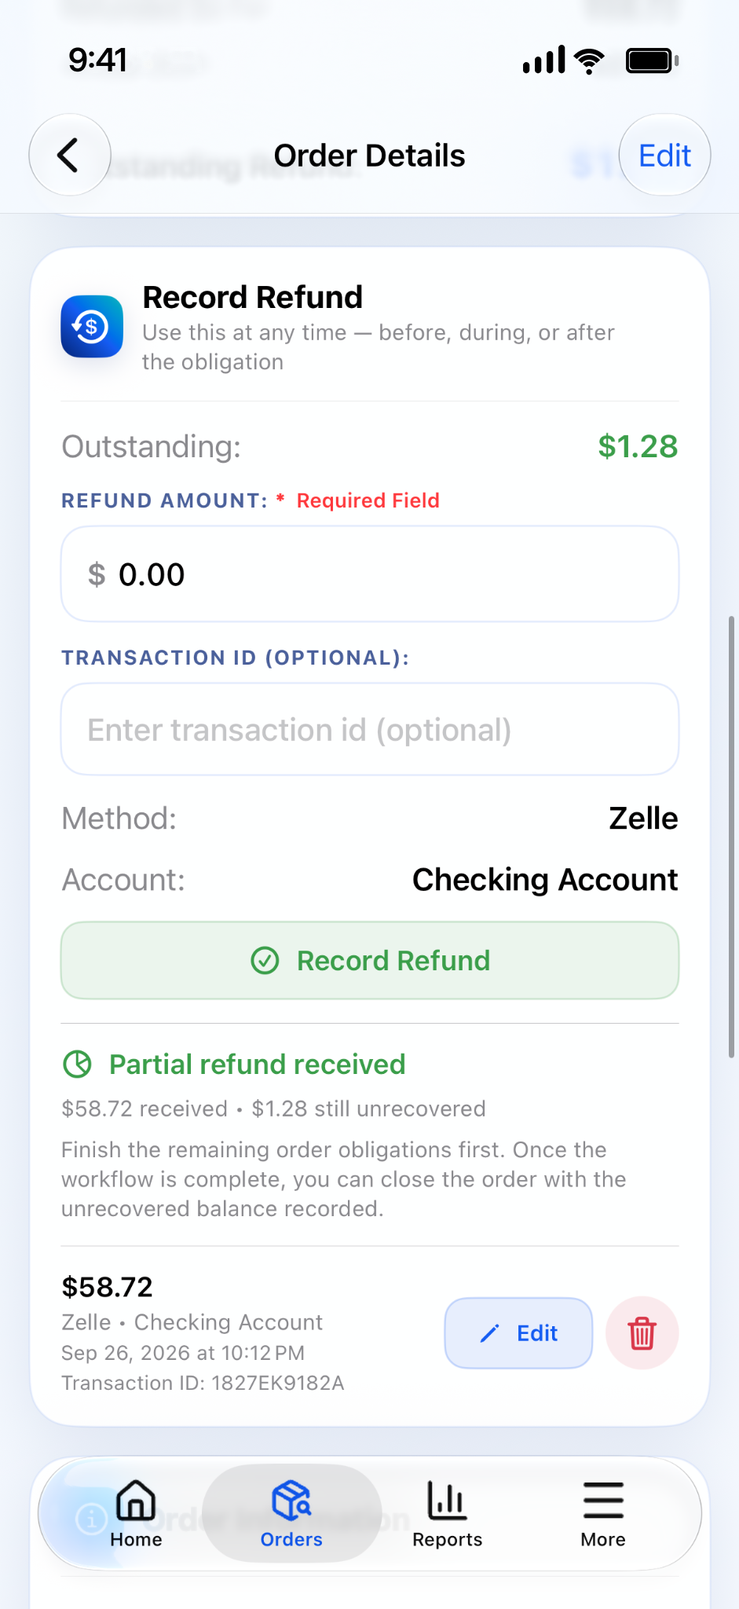
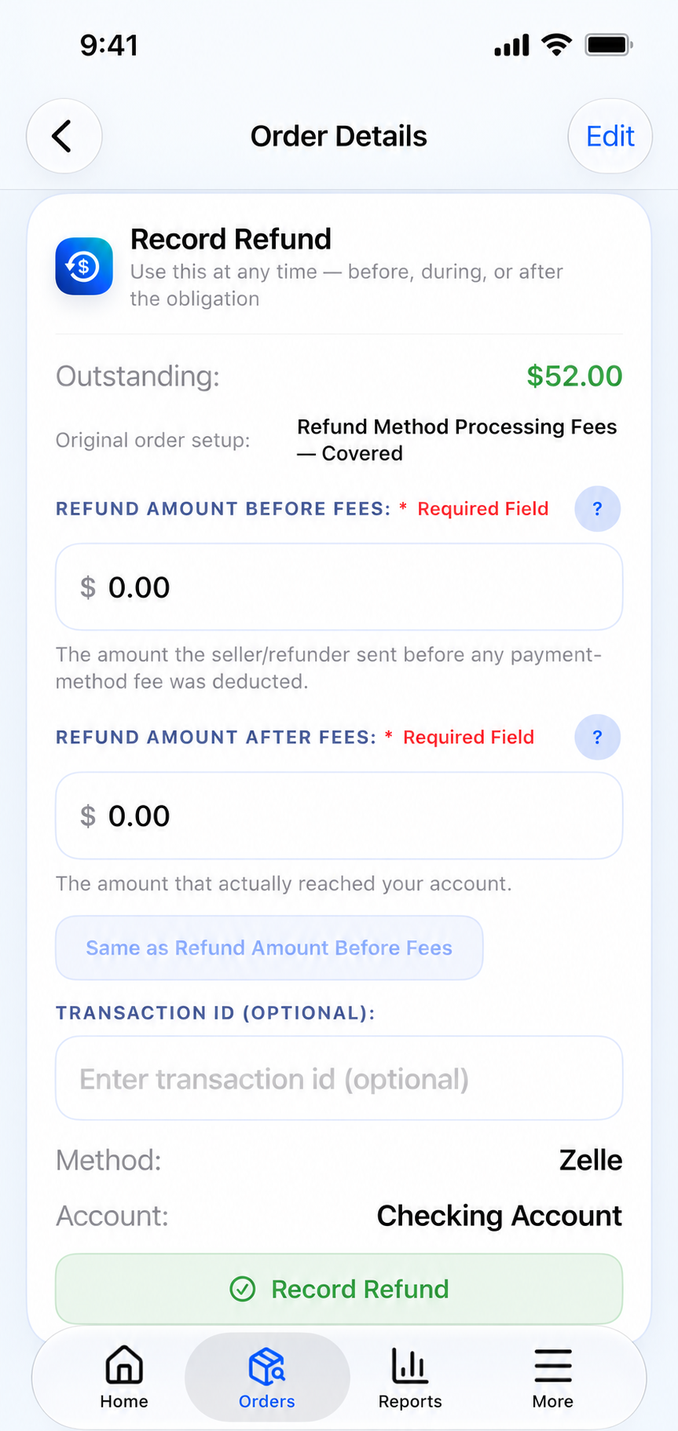
Add files via upload

diff --git a/index.html b/index.html
@@ -5,10 +5,10 @@
 <meta charset="utf-8"/>
 <meta content="width=device-width,initial-scale=1" name="viewport"/>
 <meta content="#145cf2" name="theme-color"/>
-<meta content="RebataTrack organizes rebate purchases from order through refund, with workflow tracking, grouped refunds, cloud sync, reporting, and RebataTrack+ premium tools." name="description"/>
+<meta content="RebataTrack keeps rebate orders, obligations, refund expectations, out-of-pocket costs and payments organized. Explore RebataScan, advanced reports and Saved Views with RebataTrack+." name="description"/>
 <title>RebataTrack — Never lose track of what's coming back.</title>
 <link href="app-icon.png?v=120" rel="icon"/><link href="apple-touch-icon.png?v=97" rel="apple-touch-icon"/><link href="favicon-32.png?v=97" rel="icon" sizes="32x32"/><link href="favicon-16.png?v=97" rel="icon" sizes="16x16"/>
-<link href="styles.css?v=228.0" rel="stylesheet"/>
+<link href="styles.css?v=231.0" rel="stylesheet"/>
 </head>
 <body>
 <header><div class="wrap nav">
@@ -25,8 +25,8 @@
 <div class="cta-row"><a class="btn primary" href="#features">Explore RebataTrack</a><a class="btn plus plus-cta" href="#plus"><span>See</span><span class="rebatify-plus-text">RebataTrack+</span><span>Features</span></a><a class="btn" href="support.html">Get Support</a></div>
 </div>
 <div aria-label="RebataTrack app preview screens" class="bubble-stage">
-<div class="bubble one"><div class="phone-frame"><img alt="RebataTrack Home dashboard screenshot" src="home-preview.png?v=136"/></div></div>
-<div class="bubble two"><div class="phone-frame"><img alt="RebataTrack Order Detail screenshot" src="order-detail-preview.png?v=136"/></div></div>
+<div class="bubble one"><div class="phone-frame"><img alt="RebataTrack Home dashboard screenshot" src="home-preview.png?v=231"/></div></div>
+<div class="bubble two"><div class="phone-frame"><img alt="RebataTrack Order Detail screenshot" src="order-detail-preview.png?v=231"/></div></div>
 <div class="float-chip a">● Pending refunds at a glance</div>
 <div class="float-chip b">✓ Workflow + refund progress together</div>
 </div>
@@ -35,14 +35,14 @@
 <div class="kicker">Core RebataTrack</div><h2>More than a refund list.</h2>
 <p class="lead compact-lead">Track the order, the required steps, the refund, and the final outcome in one place.</p>
 <div class="compact-feature-grid">
-<article class="feature-card compact-card"><div class="icon-bubble">$</div><h3>Refund dashboard</h3><p>See pending refunds, overdue refunds, out of pocket expense, and active orders at a glance.</p></article>
+<article class="feature-card compact-card"><div class="icon-bubble">$</div><h3>Refund dashboard</h3><p>Know what is still expected back, what is overdue, your anticipated out-of-pocket cost, and how many orders remain active.</p></article>
 <article class="feature-card compact-card"><div class="icon-bubble">✓</div><h3>Workflow tracking</h3><p>Follow delivery, obligations, review or rating status, refund progress, and completion independently.</p></article>
 <article class="feature-card compact-card"><div class="icon-bubble">◷</div><h3>Automatic refund timing</h3><p>RebataTrack calculates expected refund timing automatically using the selected Source of Rebate Deals.</p></article>
-<article class="feature-card compact-card"><div class="icon-bubble">↩</div><h3>Flexible refunds</h3><p>Record full, partial, multiple, or grouped refund transactions without losing the remaining shortfall.</p></article>
-<article class="feature-card compact-card"><div class="icon-bubble">!</div><h3>Search &amp; Action Center</h3><p>Find orders quickly and see what needs attention, what is past due, and what needs action before it is missed.</p></article>
+<article class="feature-card compact-card"><div class="icon-bubble">↩</div><h3>Flexible refunds</h3><p>Record full, partial or grouped refunds, distinguish amounts sent from amounts received, and track fees and remaining shortfalls.</p></article>
+<article class="feature-card compact-card"><div class="icon-bubble">!</div><h3>Search &amp; Action Center</h3><p>Search orders, see what needs action, and recall your important order details quickly.</p></article>
 <article class="feature-card compact-card"><div class="icon-bubble">☁</div><h3>Reliable cloud sync</h3><p>Changes save on your device first and synchronize automatically when cloud access is available again.</p></article>
 </div>
-<div class="compact-feature-note">Also includes reusable setup information, order archives, secure account and device protection, editable records, and a guided walkthrough that helps you get started.</div>
+<div class="compact-feature-note">Also includes detailed refund expectations and coverage choices, bonuses and discounts, CSV import with import history, drop-shipped order details, secure cloud sync, and organized order archives.</div>
 </div></section>
 <section class="section"><div class="wrap">
 <div class="core-banner">
@@ -56,7 +56,7 @@
 </div>
 </div>
 </div></section>
-<section class="section alt build154-setup"><div class="wrap">
+<section class="section alt launch-spotlights" id="money-tracking"><div class="wrap"><div class="kicker">Refund expectations &amp; out-of-pocket expense</div><h2>Know what you paid. Know what should come back.</h2><p class="lead">Track subtotal, tax, shipping, discounts and fees alongside expected refunds and out-of-pocket expense. Mark what a rebate covers, configure bonus or OOP requirements, and reconcile what actually arrives. One clear financial picture—without losing the underlying order workflow.</p><div class="launch-spotlight-grid"><div class="launch-visual"><img alt="RebataTrack purchase breakdown and detailed order information" loading="lazy" src="order-info-preview.png?v=231"/></div><div class="launch-visual"><img alt="RebataTrack order costs and refund progress" loading="lazy" src="order-costs-preview.png?v=231"/></div><div class="launch-points"><h3>More confidence, less spreadsheet work.</h3><p>Keep expected and received money separate. Record single or multi-order refunds, watch remaining balances, and see an accurate final outcome when an order is complete.</p><p>Import orders from CSV and review import history when you need to trace a batch.</p><a class="btn primary" href="#screens">See the app</a></div></div></div></section><section class="section alt build154-setup"><div class="wrap">
 <div class="setup-heading">
 <div class="kicker">Smarter setup &amp; refund timing</div>
 <h2>Set the timeline once. Let each order calculate it automatically.</h2>
@@ -83,44 +83,32 @@
 <li><strong>Master Default Refund Timeline</strong></li>
 <li><strong>Main Source of Rebate Deals</strong><span>Use the master timeline or choose a source-specific value.</span></li>
 <li><strong>Refund Account</strong></li>
-
 </ol>
 </article>
 </div>
 </div></section>
-
 <section class="section smart-notifications-section" id="notifications-showcase"><div class="wrap">
-  <div class="smart-notifications-mobile-copy">
-    <div class="smart-notifications-eyebrow"><span>Smart notifications</span><span class="smart-plus-pill">RebataTrack+</span></div>
-    <h2>Stay ahead without constantly checking <span class="smart-green">RebataTrack.</span></h2>
-    <p>RebataTrack can remind you when a refund may be arriving, when an obligation is ready to complete, and when an order needs your attention—so the next step doesn't get forgotten.</p>
-  </div>
-  <div class="smart-notifications-showcase-card">
-    <img src="smart-notifications-showcase.png?v=136" alt="RebataTrack smart notifications showing refund and review reminders on an iPhone lock screen" loading="lazy" decoding="async"/>
-  </div>
+<div class="smart-notifications-mobile-copy">
+<div class="smart-notifications-eyebrow"><span>Smart notifications</span><span class="smart-plus-pill">RebataTrack+</span></div>
+<h2>Stay ahead without constantly checking <span class="smart-green">RebataTrack.</span></h2>
+<p>RebataTrack can remind you when a refund may be arriving, when an obligation is ready to complete, and when an order needs your attention—so the next step doesn't get forgotten.</p>
+</div>
+<div class="smart-notifications-showcase-card">
+<img alt="RebataTrack smart notifications showing refund and review reminders on an iPhone lock screen" decoding="async" loading="lazy" src="smart-notifications-showcase.png?v=136"/>
+</div>
 </div></section>
-
 <section class="section alt rebatify-plus-section" id="plus"><div class="wrap">
 <div class="plus-section-heading">
 <div class="kicker plus-kicker-heading">Premium</div>
 <h2><span class="rebatify-plus-text">RebataTrack+</span> Features</h2>
-<p>Unlock advanced reporting, reminders, shared profiles, web access, notifications, and continued full-app access after the trial.</p>
+<p>Get RebataScan, Saved Views, Financial Intelligence, personalized reminders, sharing and connected access across supported devices.</p>
 </div>
 <div class="plus-banner">
 <span class="plus-badge">PLUS · <span class="rebatify-plus-text">RebataTrack+</span></span>
-<h2 style="margin-top:14px">More intelligence, reminders, sharing, and continued access.</h2>
-<p>RebataTrack begins with a 14-day basic-access trial. Premium-only tools are not unlocked by the trial. <span class="rebatify-plus-text">RebataTrack+</span> provides continued app access after the trial along with the <span class="rebatify-plus-text">RebataTrack+</span> features below.</p>
+<h2 style="margin-top:14px">Capture faster. Find what matters. Understand your numbers.</h2>
+<p>RebataTrack+ brings together screenshot-assisted order entry, richer financial reporting, Saved Views, custom reminder controls and shared profiles. Premium access is required for these tools and for continued full-app access after the introductory trial.</p>
 <div class="feature-list">
-<div class="feature-line"><div class="check">✓</div><div><strong>Advanced reporting</strong><span>Financial Intelligence dashboard, date-range filtering, Orders by Platform, Total Out Of Pocket Expense Cost, Refund Aging, Source Performance, Shopping/Ordering Accounts, and Refund Methods.</span></div></div>
-<div class="feature-line"><div class="check">✓</div><div><strong>Workflow reminders</strong><span>Customize Review &amp; Rating, Delivery Confirmation, and pending-review check timing.</span></div></div>
-<div class="feature-line"><div class="check">✓</div><div><strong>Notifications</strong><span>Choose alerts for Review &amp; Rating Reminders, Delivery Confirmation, Pending Review Checks, and Refund Due &amp; Overdue Refunds.</span></div></div>
-<div class="feature-line"><div class="check">✓</div><div><strong>Web Access</strong><span>Access RebataTrack from a supported web browser in addition to your iPhone. Your account stays synchronized across authorized clients, and web access counts as one trusted device/client slot for that login.</span></div></div>
-<div class="feature-line"><div class="check">✓</div><div><strong>Up to 3 users</strong><span>One <span class="rebatify-plus-text">RebataTrack+</span> shared membership can include up to three users with switchable profiles.</span></div></div>
-<div class="feature-line"><div class="check">✓</div><div><strong>Separate profile data</strong><span>Each shared profile keeps its own orders, sources, shopping accounts, refund accounts, reports, and setup data.</span></div></div>
-<div class="feature-line"><div class="check">✓</div><div><strong>Invite-code sharing</strong><span>Owners can invite another RebataTrack user with a time-limited invite code; joining users do not need a separate <span class="rebatify-plus-text">RebataTrack+</span> purchase while the shared membership remains active.</span></div></div>
-<div class="feature-line"><div class="check">✓</div><div><strong>Advanced &amp; detailed exports</strong><span><span class="rebatify-plus-text">RebataTrack+</span> is the tier for advanced reporting and detailed export access. A basic orders CSV remains available even after trial lockout.</span></div></div>
-<div class="feature-line"><div class="check">✓</div><div><strong>Continued app access</strong><span>When the 14-day basic-access trial ends, <span class="rebatify-plus-text">RebataTrack+</span> is required to continue using the full app.</span></div></div>
-</div>
+<div class="feature-line"><div class="check">✓</div><div><strong>RebataScan</strong><span>Read order screenshots on-device and bring detected order information into an editable form for review before saving. Supports different layouts and can flag details that need verification.</span></div></div><div class="feature-line"><div class="check">✓</div><div><strong>Advanced filters &amp; Saved Views</strong><span>Create named combinations of filters, searches and sorting to find the orders that matter, without rebuilding your view every time.</span></div></div><div class="feature-line"><div class="check">✓</div><div><strong>Financial Intelligence &amp; detailed reports</strong><span>Explore purchases, expected and actual refunds, OOP, refund aging, sources, accounts and trends using time-based reporting.</span></div></div><div class="feature-line"><div class="check">✓</div><div><strong>Workflow reminders &amp; notification controls</strong><span>Fine-tune reminder timing for review, rating, delivery confirmation and refund-related obligations.</span></div></div><div class="feature-line"><div class="check">✓</div><div><strong>Shared profiles</strong><span>Share one premium membership with up to three users, each with separate order and account data.</span></div></div><div class="feature-line"><div class="check">✓</div><div><strong>Web and multi-device access</strong><span>Use supported iOS, Android and web clients with synchronized data, subject to account and device limits.</span></div></div><div class="feature-line"><div class="check">✓</div><div><strong>Continued full access</strong><span>Keep using the full RebataTrack experience after the basic-access trial ends.</span></div></div></div>
 </div>
 <div class="plans-wrap">
 <div class="plan-card trial-plan">
@@ -143,7 +131,7 @@
 <div class="plan-highlight plus-highlight"><span class="plan-icon yes">✓</span><span><strong>Up to 3 users</strong><small>Shared membership with separate profile data</small></span></div>
 </div>
 </div>
-<div aria-label="RebataTrack feature comparison" class="premium-compare">
+<div class="rebatascan-showcase"><div><span class="plus-badge">REBATATRACK+ · REBATASCAN</span><h3>From screenshot to organized order.</h3><p>Select a screenshot, let RebataScan identify available order details directly on your device, then review and correct the information before saving. Results depend on the screenshot's contents and quality.</p><p class="rebatascan-small">Your screenshot is processed on-device.</p></div><div class="scan-visual"><img alt="RebataScan reading a purchase screenshot and preparing order information" loading="lazy" src="rebatascan-preview.png?v=231"/></div></div><div aria-label="RebataTrack feature comparison" class="premium-compare">
 <div class="compare-head">
 <div class="compare-feature-title">Feature comparison</div>
 <div class="compare-plan-title"><span>14-Day Trial</span></div>
@@ -153,7 +141,7 @@
 <div class="compare-feature"><strong>Order tracking &amp; workflows</strong><span>Orders, refund tracking, grouped refunds, order completion, follow-up, and archive.</span></div>
 <div class="compare-status"><span class="status-bubble yes">✓</span><div><strong>Included</strong><small>During trial</small></div></div>
 <div class="compare-status"><span class="status-bubble yes">✓</span><div><strong>Included</strong></div></div>
-</div>
+</div><div class="compare-row"><div class="compare-feature"><strong>Refund expectations &amp; OOP</strong><span>Coverage selections, fees, discounts, bonus amounts and expected out-of-pocket expense.</span></div><div class="compare-status"><span class="status-bubble yes">✓</span><div><strong>Included</strong><small>During trial</small></div></div><div class="compare-status"><span class="status-bubble yes">✓</span><div><strong>Included</strong></div></div></div><div class="compare-row"><div class="compare-feature"><strong>Single, partial &amp; multi-order refunds</strong><span>Record amounts before and after processing fees and reconcile remaining expected refunds.</span></div><div class="compare-status"><span class="status-bubble yes">✓</span><div><strong>Included</strong><small>During trial</small></div></div><div class="compare-status"><span class="status-bubble yes">✓</span><div><strong>Included</strong></div></div></div><div class="compare-row"><div class="compare-feature"><strong>CSV import &amp; import history</strong><span>Import mapped order details, review import batches and use available rollback controls.</span></div><div class="compare-status"><span class="status-bubble yes">✓</span><div><strong>Included</strong><small>During trial</small></div></div><div class="compare-status"><span class="status-bubble yes">✓</span><div><strong>Included</strong></div></div></div>
 <div class="compare-row">
 <div class="compare-feature"><strong>Cloud sync &amp; on-device saving</strong><span>Changes save on your device first, then synchronize to cloud storage when available.</span></div>
 <div class="compare-status"><span class="status-bubble yes">✓</span><div><strong>Included</strong></div></div>
@@ -165,11 +153,11 @@
 <div class="compare-status"><span class="status-bubble yes">✓</span><div><strong>Up to 3 trusted devices</strong><small>Per login; web counts as a slot</small></div></div>
 </div>
 <div class="compare-row premium-row">
-<div class="compare-feature"><strong>Web Access</strong><span>Use RebataTrack from a supported web browser in addition to iPhone access. Web access counts as one trusted device/client slot for that login.</span></div>
+<div class="compare-feature"><strong>Web Access</strong><span>Use RebataTrack from a supported web browser alongside supported mobile clients. Web access counts as one trusted device/client slot for that login.</span></div>
 <div class="compare-status"><span class="status-bubble no">✕</span><div><strong>Locked</strong><small><span class="rebatify-plus-text">RebataTrack+</span> Feature</small></div></div>
 <div class="compare-status"><span class="status-bubble yes">✓</span><div><strong>Included</strong></div></div>
 </div>
-<div class="compare-row premium-row">
+<div class="compare-row premium-row"><div class="compare-feature"><strong>RebataScan</strong><span>Screenshot-assisted order entry with review before saving.</span></div><div class="compare-status"><span class="status-bubble no">✕</span><div><strong>Locked</strong><small>RebataTrack+ feature</small></div></div><div class="compare-status"><span class="status-bubble yes">✓</span><div><strong>Included</strong></div></div></div><div class="compare-row premium-row"><div class="compare-feature"><strong>Saved Views &amp; advanced filters</strong><span>Save tailored searches and filtering rules for quick reuse.</span></div><div class="compare-status"><span class="status-bubble no">✕</span><div><strong>Locked</strong><small>RebataTrack+ feature</small></div></div><div class="compare-status"><span class="status-bubble yes">✓</span><div><strong>Included</strong></div></div></div><div class="compare-row premium-row">
 <div class="compare-feature"><strong>Financial Intelligence</strong><span>Advanced reporting, refund aging, source performance, account analysis, and refund-method reporting.</span></div>
 <div class="compare-status"><span class="status-bubble no">✕</span><div><strong>Locked</strong><small><span class="rebatify-plus-text">RebataTrack+</span> Feature</small></div></div>
 <div class="compare-status"><span class="status-bubble yes">✓</span><div><strong>Included</strong></div></div>
@@ -179,7 +167,7 @@
 <div class="compare-status"><span class="status-bubble no">✕</span><div><strong>Locked</strong><small><span class="rebatify-plus-text">RebataTrack+</span> Feature</small></div></div>
 <div class="compare-status"><span class="status-bubble yes">✓</span><div><strong>Included</strong></div></div>
 </div>
-<div class="compare-row premium-row">
+<div class="compare-row premium-row"><div class="compare-feature"><strong>Advanced reporting &amp; detailed exports</strong><span>Use deeper data analysis and advanced export options beyond the basic CSV.</span></div><div class="compare-status"><span class="status-bubble no">✕</span><div><strong>Locked</strong><small>RebataTrack+ feature</small></div></div><div class="compare-status"><span class="status-bubble yes">✓</span><div><strong>Included</strong></div></div></div><div class="compare-row premium-row">
 <div class="compare-feature"><strong>Shared membership &amp; switchable profiles</strong><span>Each profile keeps separate orders, sources, accounts, reports, and setup data.</span></div>
 <div class="compare-status"><span class="status-bubble neutral">1</span><div><strong>1 user</strong></div></div>
 <div class="compare-status"><span class="status-bubble yes">✓</span><div><strong>Up to 3 users</strong></div></div>
@@ -198,22 +186,16 @@
 </div>
 </section>
 <section class="section app-preview-section" id="screens"><div class="wrap">
-<div class="app-preview-heading"><div class="kicker">App preview</div><h2>Built to look as organized as the workflow feels.</h2></div>
+<div class="app-preview-heading"><div class="kicker">App preview</div><h2>A closer look at the features you use most.</h2></div>
 <div class="screenshot-grid">
-<article class="screen-card"><span class="tier-badge core">CORE</span><div class="phone-shot"><img alt="RebataTrack Home dashboard screenshot" src="home-preview.png?v=136"/></div><h3>Home dashboard</h3><p>Pending refunds, Overdue Refunds, active-order Out Of Pocket Expense, status counts, items needing attention, and recent orders.</p></article>
-<article class="screen-card"><span class="tier-badge core">CORE</span><div class="phone-shot"><img alt="RebataTrack Orders screenshot" src="orders-preview.png?v=136"/></div><h3>Orders &amp; Action Center</h3><p>Search, workflow filters, action-required items, in-progress orders, ready-to-archive items, and Multi-Order Refund access.</p></article>
-<article class="screen-card"><span class="tier-badge core">CORE</span><div class="phone-shot"><img alt="RebataTrack Order Detail screenshot" src="order-detail-preview.png?v=136"/></div><h3>Order detail</h3><p>Workflow steps and financials stay together, including expected vs. actual Out Of Pocket Expense, calculated refund timing, refund transactions, and partial-refund completion.</p></article>
-<article class="screen-card"><span class="tier-badge core">CORE</span><div class="phone-shot"><img alt="RebataTrack overdue refund order detail screenshot" src="order-detail-overdue-preview.png?v=136"/></div><h3>Overdue refund alerts</h3><p>Past-due refunds stand out clearly so you can see what needs follow-up without losing the order workflow or financial context.</p></article>
-<article class="screen-card"><span class="tier-badge core">CORE</span><div class="phone-shot"><img alt="RebataTrack order information screenshot" src="order-info-preview.png?v=136"/></div><h3>Order information</h3><p>Keep order dates, expected delivery and refund timing, deadlines, source, shopping account, and obligation details together in one place.</p></article>
-<article class="screen-card"><span class="tier-badge core">CORE</span><div class="phone-shot"><img alt="RebataTrack Record Refund screenshot" src="refund-preview.png?v=136"/></div><h3>Record refunds</h3><p>Record refund transactions as they arrive, keep partial-refund progress visible, and see any remaining unrecovered balance without losing the order workflow.</p></article>
-<article class="screen-card"><span class="tier-badge core">CORE</span><div class="phone-shot"><img alt="RebataTrack completed order screenshot" src="completed-order-preview.png?v=136"/></div><h3>Completed orders</h3><p>Completed orders keep the final purchase, expected refund, actual Out Of Pocket Expense, and finished workflow visible for reference.</p></article>
-<article class="screen-card"><span class="tier-badge core">CORE</span><div class="phone-shot"><img alt="RebataTrack completed order refund screenshot" src="completed-order-refund-preview.png?v=136"/></div><h3>Completed refund history</h3><p>Review the final refund transaction, payment method, account, date, and transaction reference even after the order is complete.</p></article>
-<article class="screen-card"><span class="tier-badge plus"><span class="rebatify-plus-text">RebataTrack+</span></span><div class="phone-shot"><img alt="RebataTrack Reports screenshot" src="reports-plus-preview.png?v=136"/></div><h3>Financial Intelligence</h3><p>Advanced metrics and Report Library views for Out Of Pocket Expense, Refund Aging, Source Performance, Shopping/Ordering Accounts, and Refund Methods.</p></article>
-<article class="screen-card"><span class="tier-badge core">CORE</span><div class="phone-shot"><img alt="RebataTrack More screen screenshot" src="more-preview.png?v=120"/></div><h3>Organized settings</h3><p>Sources, shopping accounts, refund accounts, archives, reminders, notifications, security, and device management stay organized in one place.</p></article>
-<article class="screen-card"><span class="tier-badge plus"><span class="rebatify-plus-text">RebataTrack+</span></span><div class="phone-shot"><img alt="RebataTrack Shared Profiles screenshot" src="sharing-plus-preview.png?v=136"/></div><h3>Shared profiles</h3><p>Up to three users share one membership while each person retains separate RebataTrack data and independent device protection.</p></article>
-<article class="screen-card"><span class="tier-badge core">CORE</span><div class="phone-shot"><img alt="RebataTrack Help and Learning screen screenshot" src="help-learning-preview.png?v=136"/></div><h3>Help &amp; learning</h3><p>Replay the guided walkthrough, open support and policy pages, visit the RebataTrack website, and keep core help resources organized in one place.</p></article><article class="screen-card"><span class="tier-badge plus"><span class="rebatify-plus-text">RebataTrack+</span></span><div class="phone-shot"><img alt="RebataTrack More screen showing active RebataTrack+ access" src="plus-subscription-preview.png?v=136"/></div><h3>RebataTrack+ access</h3><p>See your RebataTrack+ status and manage premium access directly from More.</p></article>
-<article class="screen-card"><span class="tier-badge plus"><span class="rebatify-plus-text">RebataTrack+</span></span><div class="phone-shot"><img alt="RebataTrack+ active access details screenshot" src="rebatatrack-plus-active-preview.png?v=136"/></div><h3>RebataTrack+ active</h3><p>Active access shows the account’s current RebataTrack+ status, included benefits, expiration details, and purchase-management options.</p></article>
-</div>
+<article class="screen-card"><span class="tier-badge core">CORE</span><div class="phone-shot"><img alt="RebataTrack Home dashboard screenshot" src="home-preview.png?v=231"/></div><h3>Home dashboard</h3><p>Pending refunds, Overdue Refunds, active-order Out Of Pocket Expense, status counts, items needing attention, and recent orders.</p></article>
+<article class="screen-card"><span class="tier-badge core">CORE</span><div class="phone-shot"><img alt="RebataTrack Orders screenshot" src="orders-preview.png?v=231"/></div><h3>Orders &amp; Action Center</h3><p>Search, workflow filters, action-required items, in-progress orders, ready-to-archive items, and Multi-Order Refund access.</p></article>
+<article class="screen-card"><span class="tier-badge core">CORE</span><div class="phone-shot"><img alt="RebataTrack overdue refund order detail screenshot" src="order-detail-overdue-preview.png?v=231"/></div><h3>Overdue refund alerts</h3><p>Past-due refunds stand out clearly so you can see what needs follow-up without losing the order workflow or financial context.</p></article>
+<article class="screen-card"><span class="tier-badge core">CORE</span><div class="phone-shot"><img alt="RebataTrack order information screenshot" src="order-info-preview.png?v=231"/></div><h3>Order information</h3><p>See your order dates, financial purchase breakdown, refund expectations and coverage details in clearly organized groups.</p></article>
+<article class="screen-card"><span class="tier-badge core">CORE</span><div class="phone-shot"><img alt="RebataTrack Record Refund screenshot" src="refund-preview.png?v=231"/></div><h3>Record refunds</h3><p>Record refund transactions as they arrive, keep partial-refund progress visible, and see any remaining unrecovered balance without losing the order workflow.</p></article>
+<article class="screen-card"><span class="tier-badge plus"><span class="rebatify-plus-text">RebataTrack+</span></span><div class="phone-shot"><img alt="RebataTrack Reports screenshot" src="reports-plus-preview.png?v=231"/></div><h3>Financial Intelligence</h3><p>See purchases, expected OOP, received and outstanding refunds, and deeper financial reporting over time.</p></article>
+<article class="screen-card"><span class="tier-badge plus"><span class="rebatify-plus-text">RebataTrack+</span></span><div class="phone-shot"><img alt="RebataTrack Shared Profiles screenshot" src="sharing-plus-preview.png?v=231"/></div><h3>Shared profiles</h3><p>Up to three users share one membership while each person retains separate RebataTrack data and independent device protection.</p></article>
+<article class="screen-card"><span class="tier-badge plus">RebataTrack+</span><div class="phone-shot"><img alt="RebataScan screenshot-assisted order entry" loading="lazy" src="rebatascan-preview.png?v=231"/></div><h3>RebataScan</h3><p>Extract available order details from a screenshot, then verify the prefilled information before saving.</p></article></div>
 </div></section>
 <section class="section alt"><div class="wrap grid2">
 <div class="card"><div class="kicker">Financial logic</div><h2>“Cash Still Tied Up” means money you still expect back.</h2><p>RebataTrack intentionally does not calculate tied-up cash as purchase total minus refunds. It is the remaining expected refund on active orders. Expected Out Of Pocket Expense is excluded. If you complete an order with a partial refund, that remaining unrecovered shortfall is preserved as the final outcome but no longer counts as pending cash.</p></div>
@@ -222,5 +204,5 @@
 </main>
 <footer><div class="wrap foot"><div>© 2026 RebataTrack. All rights reserved.</div><div class="foot-links"><a href="support.html">Support</a><a href="privacy.html">Privacy Policy</a><a href="terms.html">Terms of Service</a></div></div></footer>
 <script src="public-nav.js?v=224.1"></script>
-<footer data-rebatatrack-website-build="228" aria-label="Website build" style="text-align:center;padding:18px 12px 20px;color:#66758b;font:700 12px/1.4 -apple-system,BlinkMacSystemFont,'Segoe UI',sans-serif;letter-spacing:.02em;">Website Build 228</footer>
+<footer aria-label="Website build" data-rebatatrack-website-build="231" style="text-align:center;padding:18px 12px 20px;color:#66758b;font:700 12px/1.4 -apple-system,BlinkMacSystemFont,'Segoe UI',sans-serif;letter-spacing:.02em;">Website Build 231</footer>
 </body></html>

diff --git a/styles.css b/styles.css
@@ -2763,3 +2763,6 @@ body.portal-conversation-active .portal-support-launcher{opacity:0;pointer-event
 .admin-version-policy-grid label{display:flex;flex-direction:column;gap:7px;color:#34445e;font-size:13px;font-weight:700}
 .admin-version-policy-grid input{width:100%;box-sizing:border-box;border:1px solid #cbd5e1;border-radius:10px;padding:11px 12px;color:#13223d;background:#fff;font:inherit}
 .admin-version-policy-grid input:focus{outline:2px solid #3d8bff;outline-offset:1px}
+
+/* Website Build 231 — launch feature spotlights */
+.launch-spotlights .lead{max-width:920px}.launch-spotlight-grid{display:grid;grid-template-columns:minmax(0,1fr) minmax(0,1fr) minmax(260px,1.25fr);gap:24px;align-items:center;margin-top:30px}.launch-visual{min-width:0;display:flex;justify-content:center}.launch-visual img{max-height:475px;max-width:100%;width:auto;object-fit:contain;border-radius:24px;box-shadow:0 15px 36px rgba(19,53,115,.13)}.launch-points{min-width:0}.launch-points h3{font-size:clamp(22px,2.3vw,32px);line-height:1.2}.launch-points p{line-height:1.65}.rebatascan-showcase{display:grid;grid-template-columns:minmax(0,1.4fr) minmax(0,.75fr);align-items:center;gap:28px;padding:28px;margin:30px 0;border:1px solid #23458b;background:linear-gradient(120deg,#05142d,#092b55);color:white;border-radius:26px;overflow:hidden}.rebatascan-showcase h3{font-size:clamp(24px,3vw,38px);line-height:1.15;color:white;margin:20px 0 12px}.rebatascan-showcase p{color:#cfdef5;line-height:1.65}.rebatascan-showcase .rebatascan-small{font-size:13px;color:#8fe9d1}.scan-visual{text-align:center}.scan-visual img{width:min(100%,225px);height:auto;border-radius:19px;box-shadow:0 20px 40px rgba(0,0,0,.25)}@media(max-width:850px){.launch-spotlight-grid{grid-template-columns:repeat(2,minmax(0,1fr))}.launch-points{grid-column:1/-1}.launch-visual img{max-height:370px}}@media(max-width:560px){.launch-spotlight-grid{gap:12px}.launch-visual img{max-height:275px;border-radius:14px}.rebatascan-showcase{grid-template-columns:1fr;text-align:left;padding:22px}.scan-visual img{width:180px}}
